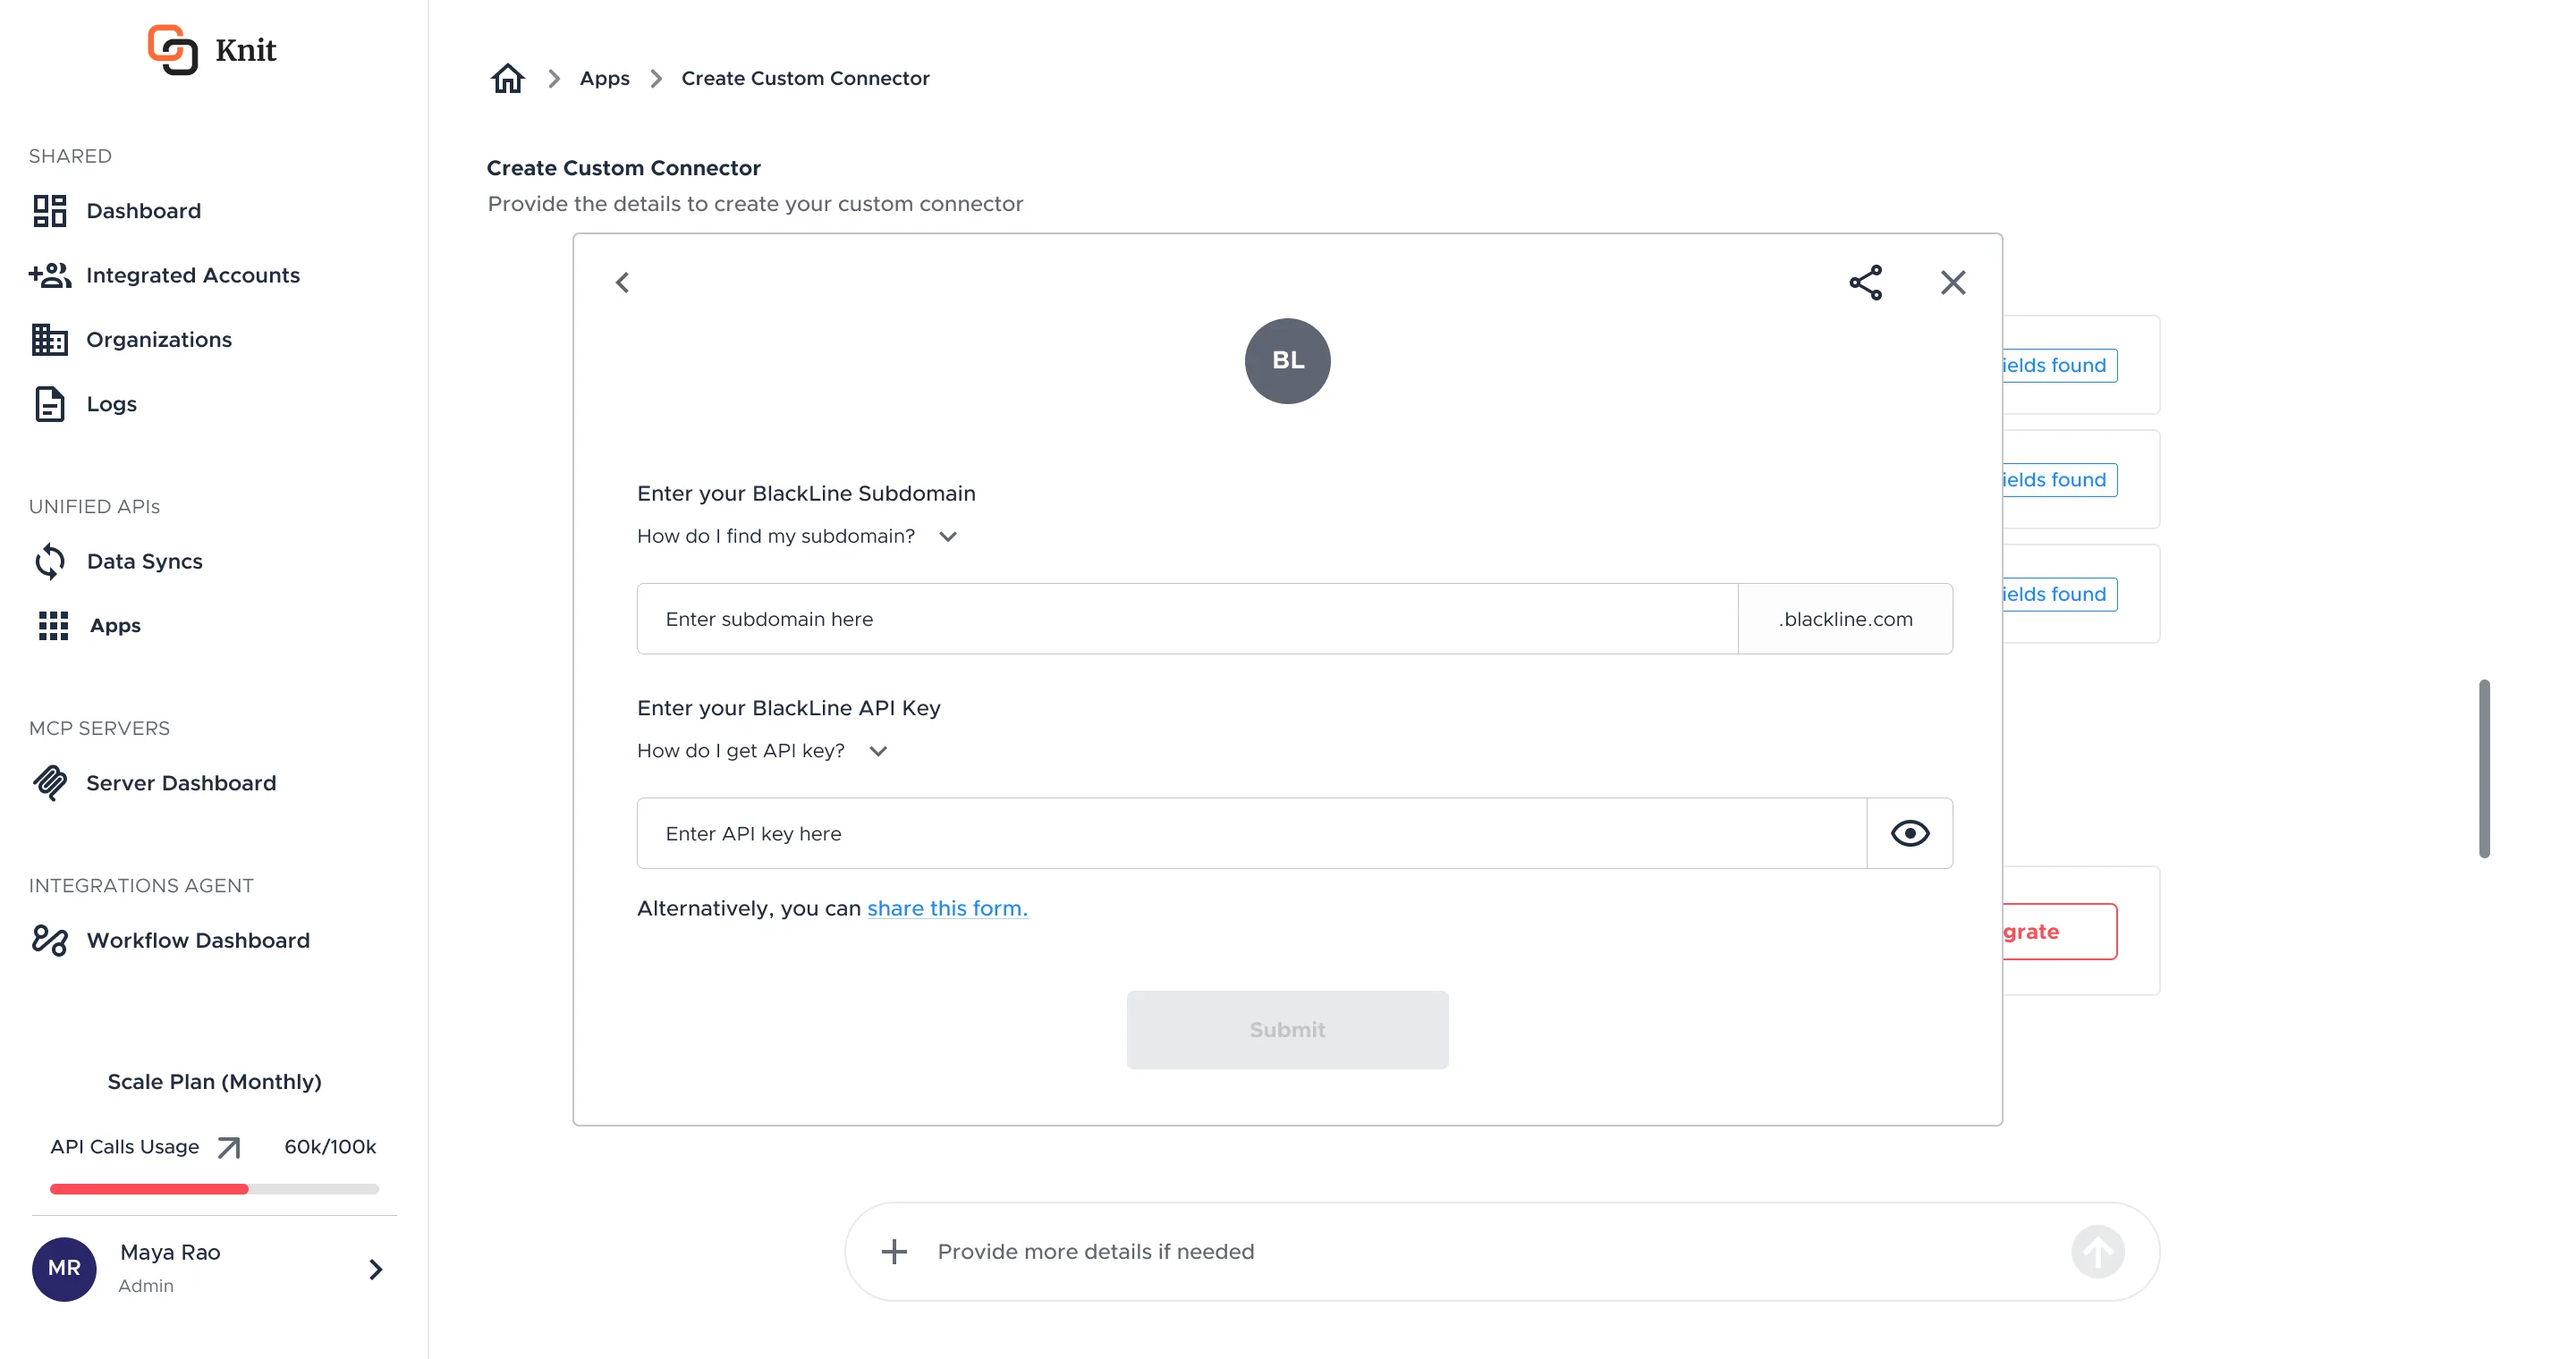
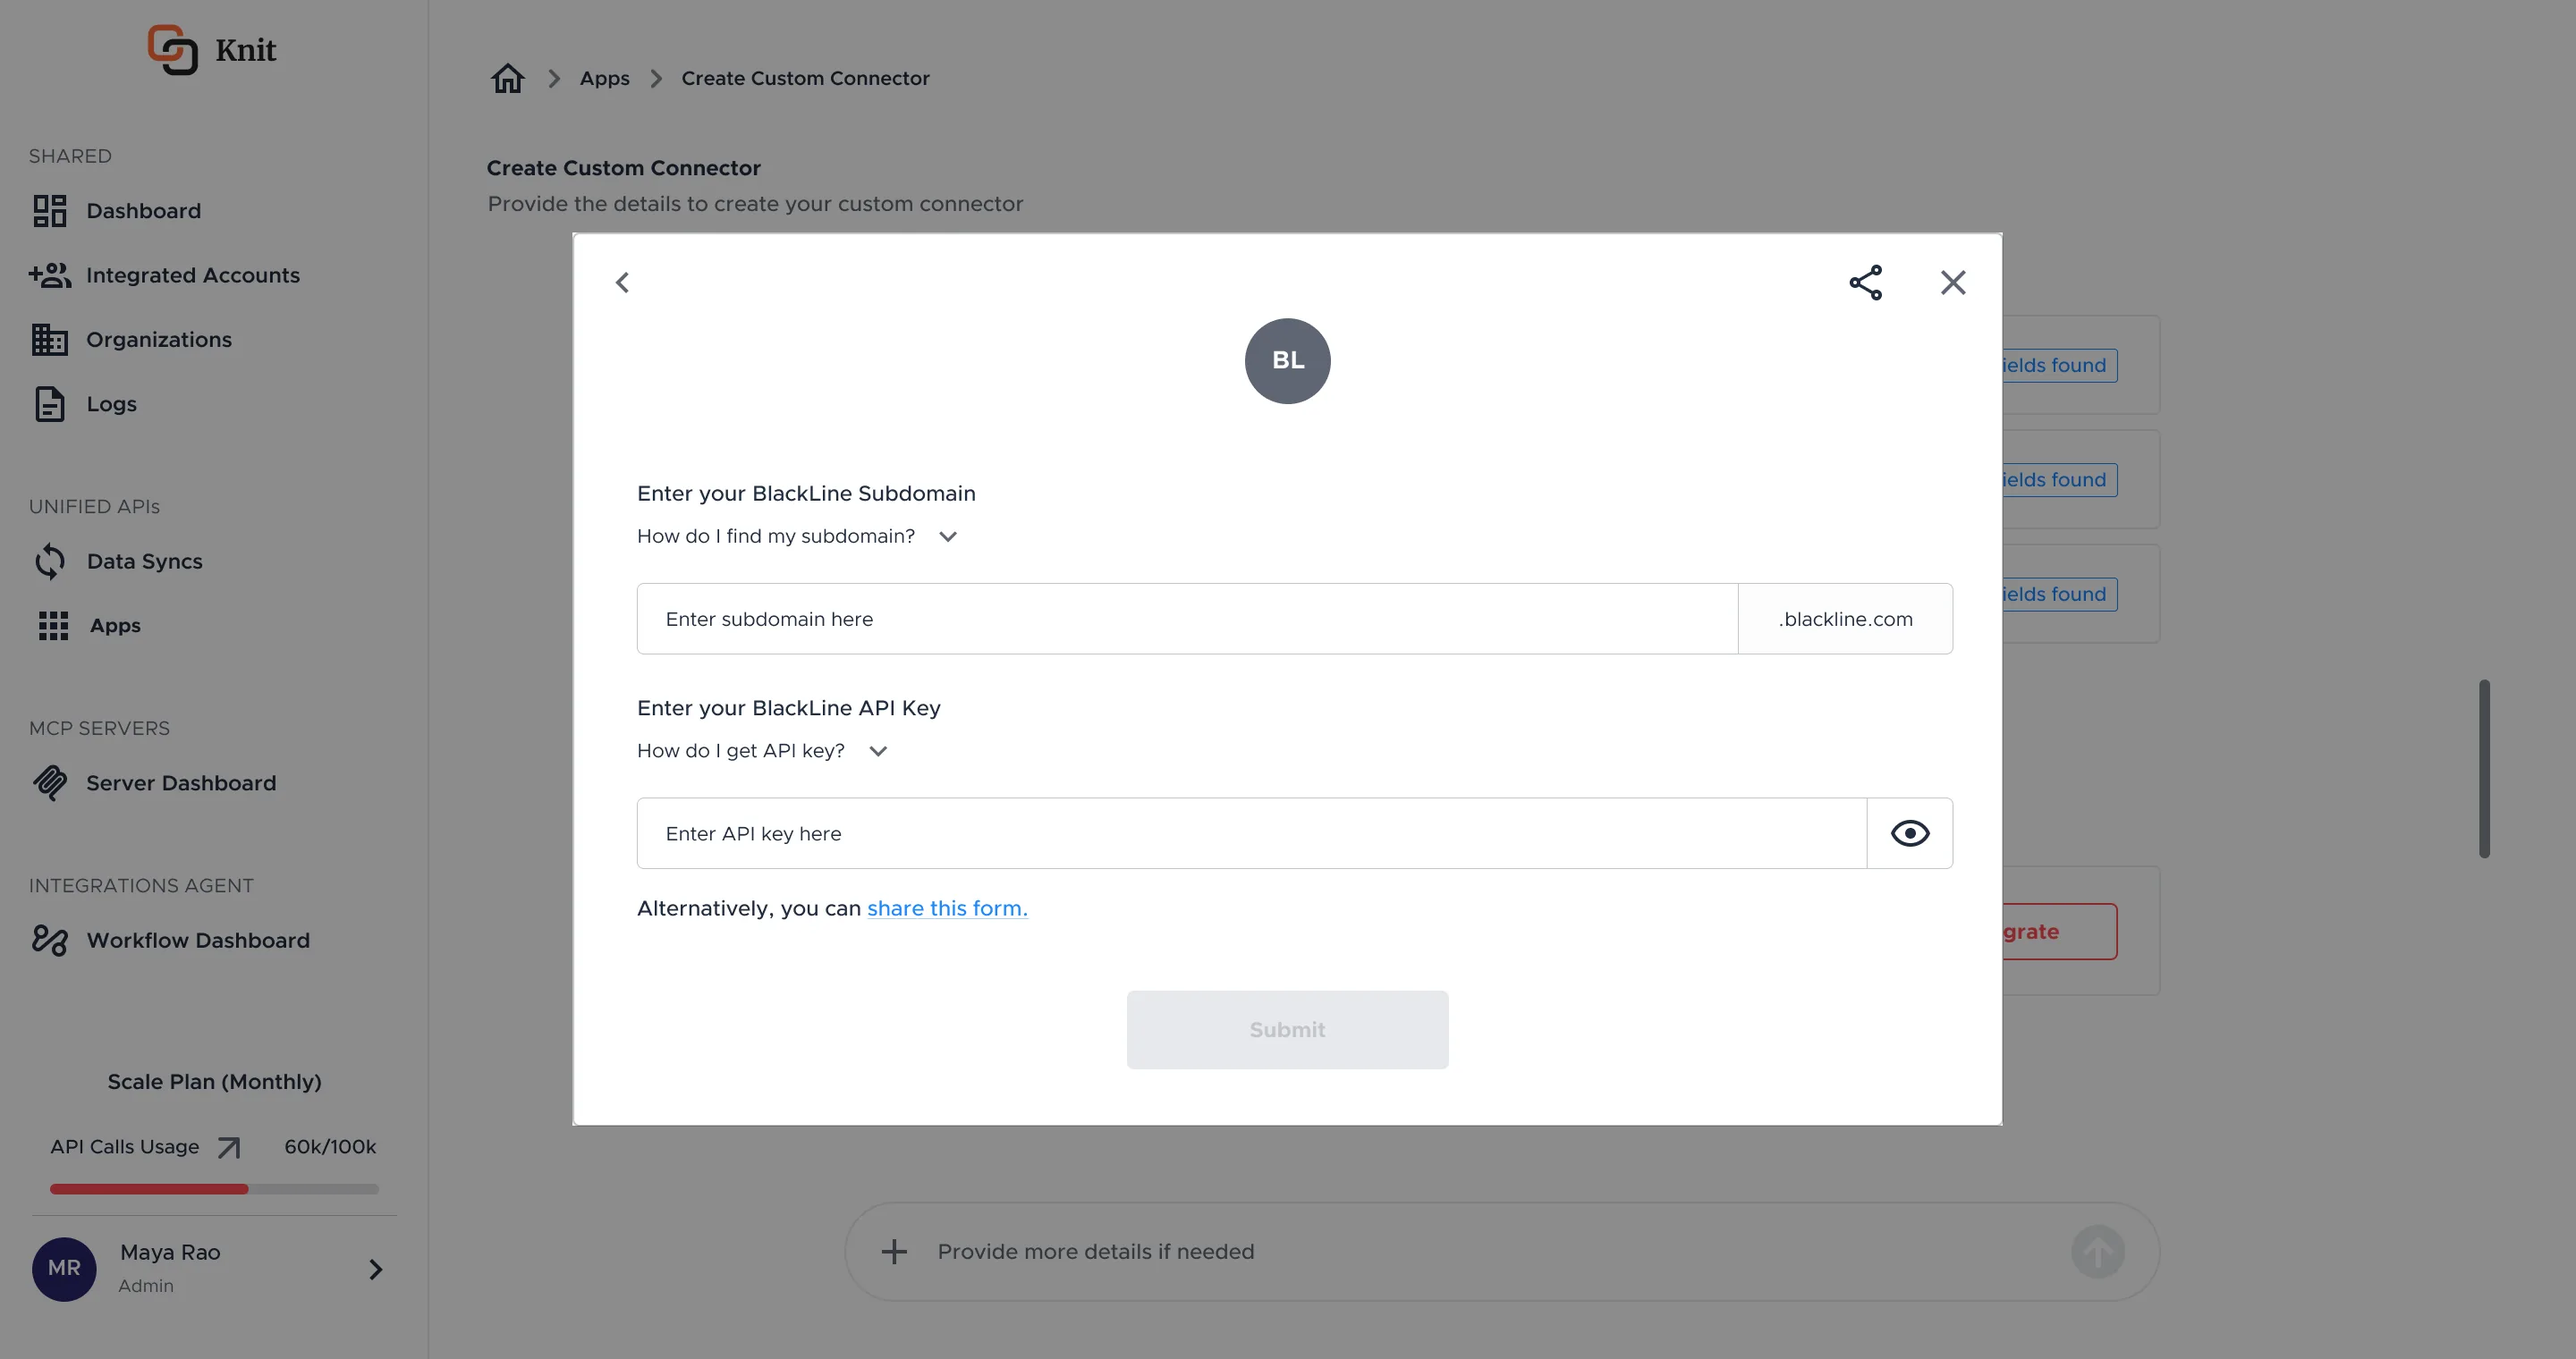
Connector case: fix clipped heading, add App Management step, dim auth modal backdrop
Claude-Session: https://claude.ai/code/session_01HANcdKuu31yACBcrgzp2pV

diff --git a/index.html b/index.html
@@ -1875,8 +1875,8 @@ html[data-style="ink"] .hero h1 em{color:#F5CF5C}
 </template>
 <template id="tpl-cc-flow">
   <div class="vis">
-    <div class="vis-cap"><span>The happy path, in seven moments</span><span>Scroll to step through</span></div>
-    <div class="scrolly" style="--steps:7" data-scrolly data-lens-title="Visibility of system status" data-lens="An agent works out of sight. Each moment ends with something the developer can see and check, so they always know what it's about to do.">
+    <div class="vis-cap"><span>The happy path, in seven moments, and what comes after</span><span>Scroll to step through</span></div>
+    <div class="scrolly" style="--steps:8" data-scrolly data-lens-title="Visibility of system status" data-lens="An agent works out of sight. Each moment ends with something the developer can see and check, so they always know what it's about to do.">
       <div class="scrolly-in">
         <div class="steps">
           <div class="step on"><span class="n">1 · ASK · STRUCTURED INTENT</span><b>Start with a short form</b><span>App name and category give the agent a direction. The chat box below stays open the whole way for anything the form doesn't cover.</span></div>
@@ -1886,9 +1886,10 @@ html[data-style="ink"] .hero h1 em{color:#F5CF5C}
           <div class="step"><span class="n">5 · REVIEW · APPROVAL GATE</span><b>Check the endpoints</b><span>The agent lists the auth method, base URL and endpoints it found. Developers can tell at a glance if these are right, and everything after depends on them.</span></div>
           <div class="step"><span class="n">6 · MAP · SHOW THE WORK</span><b>Knit fields, matched</b><span>Every mapping is visible, field by field, with a count on each API. The developer confirms, then the build starts.</span></div>
           <div class="step"><span class="n">7 · SHIP · LONG-RUNNING TASK</span><b>Build, test, publish</b><span>The agent builds, asks for test credentials, tests each API and publishes what passed. It can take a few minutes, so people can leave and come back.</span></div>
+          <div class="step"><span class="n">AFTER · BACK IN APP MANAGEMENT</span><b>Next to every other CRM app</b><span>The published connector sits under CRM with a Custom tag, ready to switch on for customers. Its name and icon can be changed later.</span></div>
         </div>
         <div class="sc-stage"><div class="frame"><div class="frame-bar"><i></i><i></i><i></i><span>app.getknit.dev/apps/custom-connector</span></div>
-          <div class="sc-screens wide"><div class="sw on" data-screen="ccStart"></div><div class="sw" data-screen="ccConfirm"></div><div class="sw" data-screen="ccApis"></div><div class="sw" data-screen="ccDocs"></div><div class="sw" data-screen="ccFindings"></div><div class="sw" data-screen="ccMapping"></div><div class="sw" data-screen="ccPublished"></div></div>
+          <div class="sc-screens wide"><div class="sw on" data-screen="ccStart"></div><div class="sw" data-screen="ccConfirm"></div><div class="sw" data-screen="ccApis"></div><div class="sw" data-screen="ccDocs"></div><div class="sw" data-screen="ccFindings"></div><div class="sw" data-screen="ccMapping"></div><div class="sw" data-screen="ccPublished"></div><div class="sw" data-screen="ccAppsCustom"></div></div>
         </div><div class="sc-progress"><i></i></div></div>
       </div>
     </div>
@@ -1897,16 +1898,15 @@ html[data-style="ink"] .hero h1 em{color:#F5CF5C}
 <template id="tpl-cc-wait">
   <div class="vis">
     <div class="vis-cap"><span>Leaving mid-build is normal</span><span>Scroll to step through</span></div>
-    <div class="scrolly" style="--steps:4" data-scrolly data-lens-title="Zeigarnik effect" data-lens="Unfinished tasks stay on people's minds. A visible draft gives them a place to come back to instead of starting over.">
+    <div class="scrolly" style="--steps:3" data-scrolly data-lens-title="Zeigarnik effect" data-lens="Unfinished tasks stay on people's minds. A visible draft gives them a place to come back to instead of starting over.">
       <div class="scrolly-in">
         <div class="steps">
           <div class="step on"><span class="n">CREDENTIALS</span><b>Testing needs a real account</b><span>Knit's auth component opens for the API key. If the developer doesn't have it, the share icon sends the form to a teammate who does.</span></div>
           <div class="step"><span class="n">TESTING</span><b>Come back later</b><span>Each API and data model shows its own status. Data models are tested with a dummy webhook that the agent sets up.</span></div>
           <div class="step"><span class="n">DRAFT</span><b>Saved where they'd look</b><span>Close the tab and the connector waits in App Management with a Drafts tag. Opening it picks up at the same step.</span></div>
-          <div class="step"><span class="n">PUBLISHED</span><b>Next to every other CRM app</b><span>Once published it sits under CRM with a Custom tag. The name and icon can be changed later.</span></div>
         </div>
         <div class="sc-stage"><div class="frame"><div class="frame-bar"><i></i><i></i><i></i><span>app.getknit.dev/apps</span></div>
-          <div class="sc-screens wide"><div class="sw on" data-screen="ccAuth"></div><div class="sw" data-screen="ccTesting"></div><div class="sw" data-screen="ccAppsDraft"></div><div class="sw" data-screen="ccAppsCustom"></div></div>
+          <div class="sc-screens wide"><div class="sw on" data-screen="ccAuth"></div><div class="sw" data-screen="ccTesting"></div><div class="sw" data-screen="ccAppsDraft"></div></div>
         </div><div class="sc-progress"><i></i></div></div>
       </div>
     </div>
